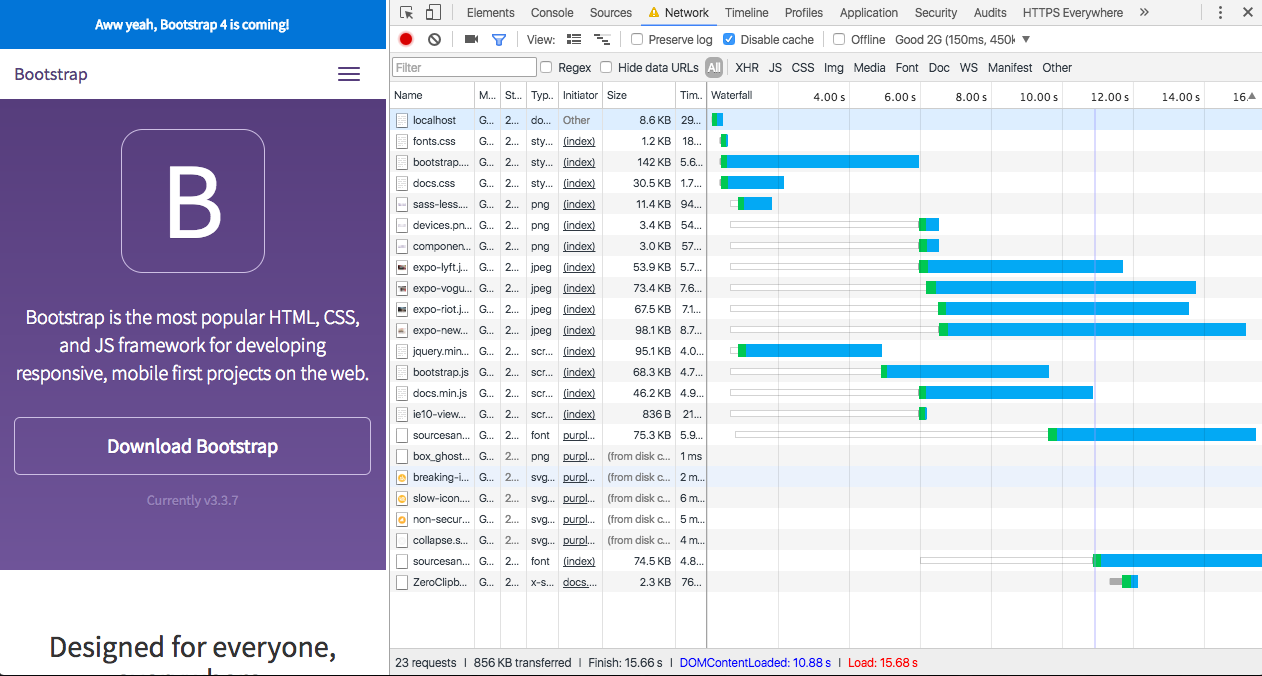
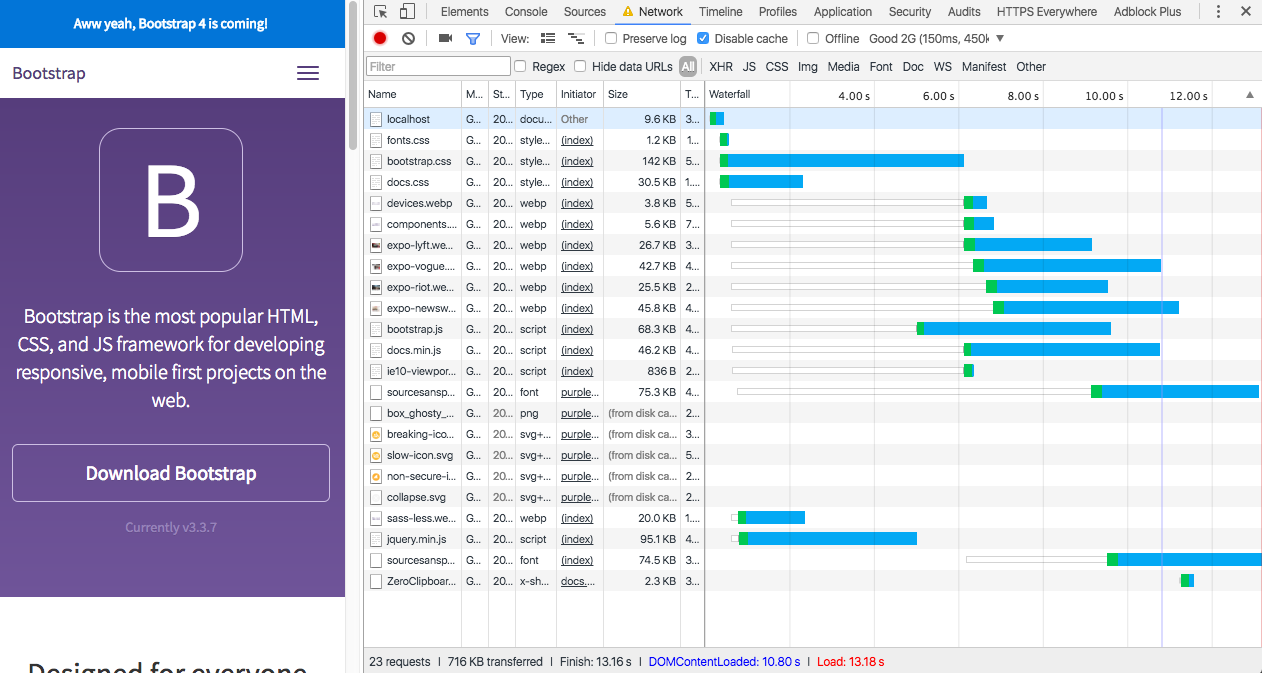
webp image format with picture element

diff --git a/src/index.html b/src/index.html
@@ -59,17 +59,26 @@
         <hr class="half-rule">
         <div class="row">
             <div class="col-sm-4">
-                <img alt="Sass and Less support" class="img-responsive" src="/assets/img/sass-less.png">
+                <picture>
+                    <source srcset="/assets/img/sass-less.webp" type="image/webp">
+                    <img alt="Sass and Less support" class="img-responsive" src="/assets/img/sass-less.png">
+                </picture>
                 <h3>Preprocessors</h3>
                 <p>Bootstrap ships with vanilla CSS, but its source code utilizes the two most popular CSS preprocessors, <a href="../css/#less">Less</a> and <a href="../css/#sass">Sass</a>. Quickly get started with precompiled CSS or build on the source.</p>
             </div>
             <div class="col-sm-4">
-                <img alt="Responsive across devices" class="img-responsive" src="/assets/img/devices.png">
+                <picture>
+                    <source srcset="/assets/img/devices.webp" type="image/webp">
+                    <img alt="Responsive across devices" class="img-responsive" src="/assets/img/devices.png">
+                </picture>
                 <h3>One framework, every device.</h3>
                 <p>Bootstrap easily and efficiently scales your websites and applications with a single code base, from phones to tablets to desktops with CSS media queries.</p>
             </div>
             <div class="col-sm-4">
-                <img alt="Components" class="img-responsive" src="/assets/img/components.png">
+                <picture>
+                    <source srcset="/assets/img/components.webp" type="image/webp">
+                    <img alt="Components" class="img-responsive" src="/assets/img/components.png">
+                </picture>
                 <h3>Full of features</h3>
                 <p>With Bootstrap, you get extensive and beautiful documentation for common HTML elements, dozens of custom HTML and CSS components, and awesome jQuery plugins.</p>
             </div>
@@ -86,22 +95,34 @@
         <div class="row bs-docs-featured-sites">
             <div class="col-xs-6 col-sm-3">
                 <a href="http://expo.getbootstrap.com/2014/10/29/lyft/" target="_blank" title="Lyft">
-                    <img alt="Lyft" src="/assets/img/expo-lyft.jpg" class="img-responsive">
+                    <picture>
+                        <source srcset="/assets/img/expo-lyft.webp" type="image/webp">
+                        <img alt="Lyft" src="/assets/img/expo-lyft.jpg" class="img-responsive">
+                    </picture>
                 </a>
             </div>
             <div class="col-xs-6 col-sm-3">
                 <a href="http://expo.getbootstrap.com/2014/09/30/vogue/" target="_blank" title="Vogue">
-                    <img alt="Vogue" class="img-responsive" src="/assets/img/expo-vogue.jpg">
+                    <picture>
+                        <source srcset="/assets/img/expo-vogue.webp" type="image/webp">
+                        <img alt="Vogue" class="img-responsive" src="/assets/img/expo-vogue.jpg">
+                    </picture>
                 </a>
             </div>
             <div class="col-xs-6 col-sm-3">
                 <a href="http://expo.getbootstrap.com/2014/03/13/riot-design/" target="_blank" title="Riot Design">
-                    <img alt="Riot Design" class="img-responsive" src="/assets/img/expo-riot.jpg">
+                    <picture>
+                        <source srcset="/assets/img/expo-riot.webp" type="image/webp">
+                        <img alt="Riot Design" class="img-responsive" src="/assets/img/expo-riot.jpg">
+                    </picture>
                 </a>
             </div>
             <div class="col-xs-6 col-sm-3">
                 <a href="http://expo.getbootstrap.com/2014/02/12/newsweek/" target="_blank" title="Newsweek">
-                    <img alt="Newsweek" class="img-responsive" src="/assets/img/expo-newsweek.jpg">
+                    <picture>
+                        <source srcset="/assets/img/expo-newsweek.webp" type="image/webp">
+                        <img alt="Newsweek" class="img-responsive" src="/assets/img/expo-newsweek.jpg">
+                    </picture>
                 </a>
             </div>
         </div>

diff --git a/AUDIT.md b/AUDIT.md
@@ -1,13 +1,14 @@
 # Performance audit
 ## Image optimization
-
+I used [tinypng.com](tinypng.com) to compress the images that are used in the website. Than I converted the images to the webp  image format using [convertio.co](convert.co).
 ### Timeline before optimizing images - 23s
 ![Screenshot of first timeline](https://github.com/dylanvans/performance-matters/blob/image-optimization/md-img/first-screenshot.png)
 
 ### Timeline after optimizing images - 15s
 ![Screenshot of timeline](https://github.com/dylanvans/performance-matters/blob/image-optimization/md-img/screenshot.png)
 
-[tinypng.com](tinypng.com)
-[gulp imagemin](https://www.npmjs.com/package/gulp-imagemin)
+#### Sources
+- [tinypng.com](tinypng.com)
+- [gulp imagemin](https://www.npmjs.com/package/gulp-imagemin)
 
 
